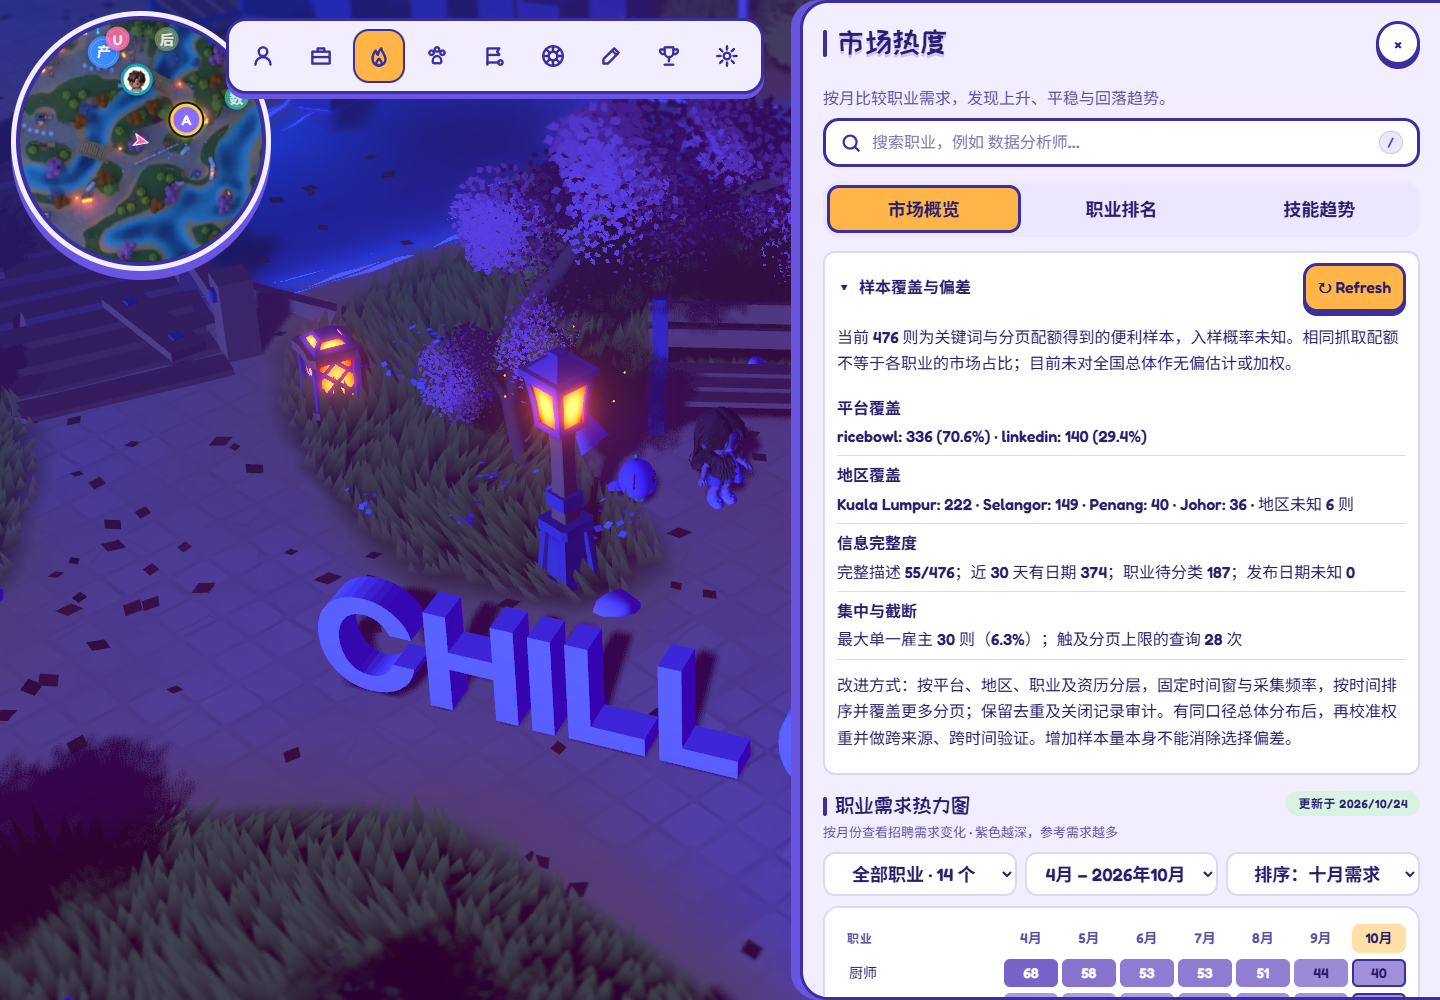
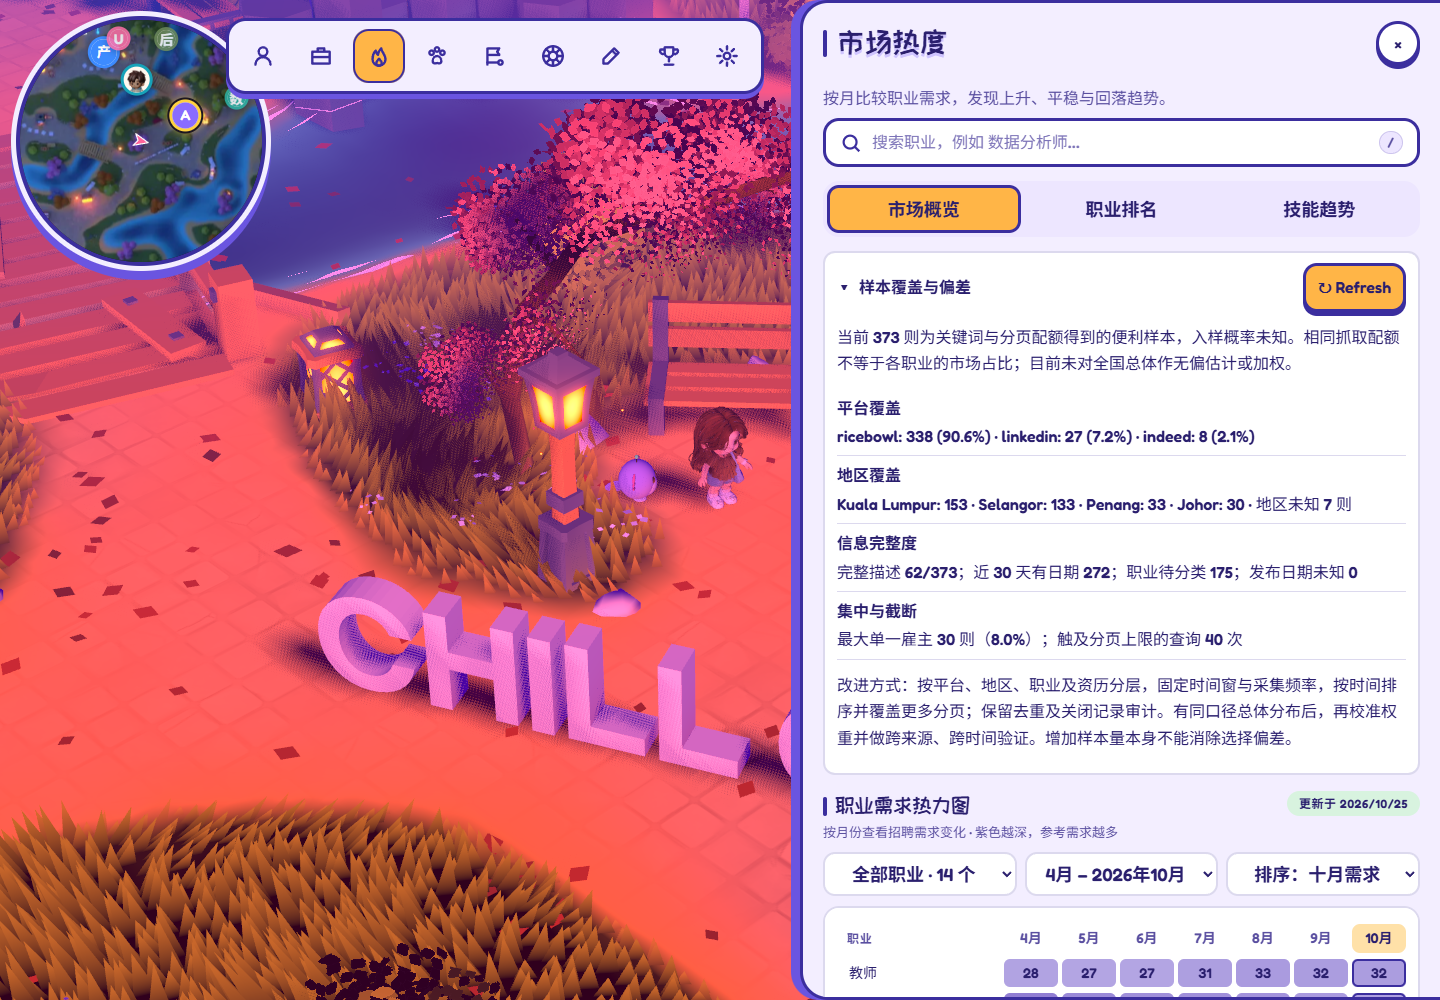
Record merged branch validation and updated market UI checks

diff --git a/docs/superpowers/plans/2026-10-25-branch-integration-audit.md b/docs/superpowers/plans/2026-10-25-branch-integration-audit.md
@@ -18,3 +18,13 @@ The WhatsApp branch's other changes synchronize older GamePlat/chatbot versions 
 The FDE recent-postings detail card is removed from both market and career detail views. The FDE career, heatmap row, and NEW badge remain available.
 
 Publication excludes local environment files, browser profiles, runtime databases, intermediate data runs, the standalone cloudflared executable, and unrelated untracked skill libraries.
+
+Validation after merging main:
+
+- Game/server, career UI logic, and n8n: 147 tests passed, including RunPod tests.
+- Collection service: 47 tests passed.
+- Chatbot: 109 tests passed using the repository `.venv` and a fresh temporary test directory.
+- Data processing: eight unit tests and 22 offline integrity/replay checks passed.
+- Desktop/mobile browser checks passed: no FDE detail card in either view, retained FDE career and NEW badge, refresh only in market overview, and no page errors. Refresh responses were intercepted; no test sample was published.
+- Production Vite build passed. Existing asset-resolution, dependency eval, and bundle-size warnings remain.
+- Staged project files contained no configured secret values or local environment/database/browser-profile paths.
